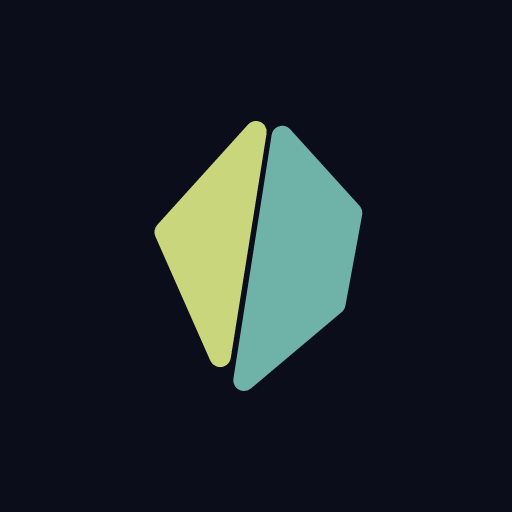
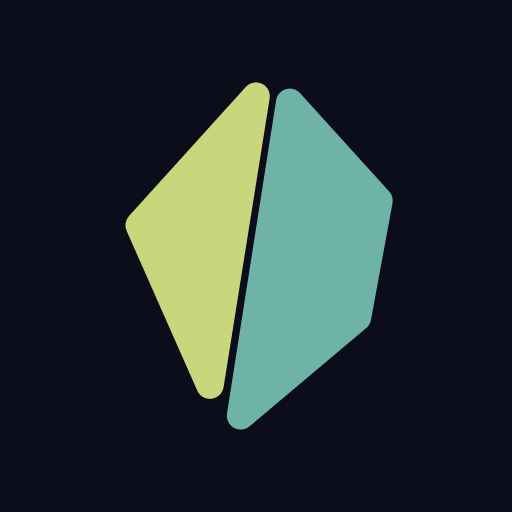
Aperçus et en-têtes : la carte X de l'accueil a son titre, une page introuvable n'a plus d'adresse canonique
- L'accueil porte twitter:title et twitter:description, les mêmes que l'aperçu LinkedIn.
- Une page introuvable ne se déclare plus comme l'accueil (ni canonical, ni og:url).
- /bandes et /primes : le texte de l'image d'aperçu est celui de l'image de l'accueil.
- Une fiche inconnue ouverte avec ?lang=en a son aperçu en anglais.
- Description anglaise des primes : “apprenticeship” au lieu de “work-study”.
- Les réponses JSON de l'API sont compressées au-dessus de 1 Ko ; la configuration se
  garde une minute en cache.
- Manifeste : icônes « any » avec la gemme en grand, et une icône masquable à part,
  dessinée par scripts/icons.ts.

Changed region(s): [[0.25, 0.1562, 0.7812, 0.8438]]

diff --git a/server/src/app.ts b/server/src/app.ts
@@ -37,7 +37,7 @@ import { mountPrimes, purgeEntries } from "./primes";
 import { mountPrimePages } from "./primePages";
 import { loadRules, servableRules } from "./rules";
 import { addVary, compressHtml, isCompressible, readManifest, StaticCompressor, withPreloads } from "./assets";
-import { NOINDEX, robotsTxt, sitemapPaths, sitemapXml, sitePageMeta, withPageUrl } from "./seo";
+import { NOINDEX, robotsTxt, sitemapPaths, sitemapXml, sitePageMeta, withoutPageUrl, withPageUrl } from "./seo";
 
 export interface AppOptions {
   store: Store;
@@ -260,7 +260,15 @@ export function createApp(opts: AppOptions) {
     app.use("*", async (c, next) => {
       if (c.req.path.startsWith("/.vite/")) return c.text("Not found", 404);
       await next();
-      if (c.req.method !== "GET" || !(c.res.headers.get("content-type") ?? "").startsWith("text/html")) return;
+      if (c.req.method !== "GET") return;
+      // Les réponses JSON de l'API, compressées au-dessus de 1 Ko comme le HTML (assets.ts).
+      if ((c.res.headers.get("content-type") ?? "").startsWith("application/json") && c.req.path.startsWith("/api/")) {
+        const packed = await compressHtml(c.res, c.req.header("accept-encoding"));
+        c.res = undefined;
+        c.res = packed;
+        return;
+      }
+      if (!(c.res.headers.get("content-type") ?? "").startsWith("text/html")) return;
       const raw = manifest ? withPreloads(await c.res.text(), manifest, c.req.path, c.res.status) : await c.res.text();
       // La configuration dans la page : le bandeau de saison est là dès la première image (html.ts).
       const html = injectConfig(raw, appConfig());
@@ -304,7 +312,8 @@ export function createApp(opts: AppOptions) {
   const pageNotFound = async (c: Context): Promise<Response> => {
     const template = await siteTemplate();
     c.header("Cache-Control", "no-cache");
-    if (template) return c.html(injectHomeImage(template, baseUrl), 404);
+    // Une page introuvable n'a pas d'adresse canonique : ni celle de l'accueil, ni la sienne.
+    if (template) return c.html(withoutPageUrl(injectHomeImage(template, baseUrl)), 404);
     return c.html(await serverPage(c, "pageNotFound"), 404);
   };
 
@@ -377,7 +386,11 @@ export function createApp(opts: AppOptions) {
       interviews: season ? season.primes.filter((p) => primePhase(season, p, now) === "open").reduce((n, p) => n + p.interviews, 0) : 0,
     };
   };
-  app.get("/api/config", (c) => c.json(appConfig()));
+  // Une minute de cache : chaque page la porte déjà dans son HTML, la réponse ne fait que confirmer.
+  app.get("/api/config", (c) => {
+    c.header("Cache-Control", "public, max-age=60");
+    return c.json(appConfig());
+  });
 
   // Les moteurs de recherche : de vrais fichiers, sans les fiches (seo.ts).
   app.get("/robots.txt", (c) => {
@@ -811,7 +824,7 @@ export function createApp(opts: AppOptions) {
       return c.html(injectMeta(page, generic), mine ? 200 : 410);
     }
     // L'aperçu est lu par tout le monde : la version publique (shared/publicView.ts).
-    const found = row ? metaFor(publicView(withWeekSpecial(store.db, row.data).data, { thirdParty: thirdParty(row) }), baseUrl) : genericMeta(baseUrl, `/c/${id}`);
+    const found = row ? metaFor(publicView(withWeekSpecial(store.db, row.data).data, { thirdParty: thirdParty(row) }), baseUrl) : genericMeta(baseUrl, `/c/${id}`, requestLang(c.req.query("lang"), c.req.header("Accept-Language")));
     const meta = { ...found, noindex: true };
     const html = template ? injectMeta(template, meta) : standalonePage(meta);
     c.header("Cache-Control", "public, max-age=300");

diff --git a/server/src/primePages.ts b/server/src/primePages.ts
@@ -17,7 +17,7 @@ import type { Lang } from "../../shared/types";
 import type { Store } from "./db";
 import { pageTitle } from "../../shared/promise";
 import { frTypo } from "../../shared/typo";
-import { HOME_IMAGE_PATH, injectMeta, requestLang, standalonePage, type PageMeta } from "./html";
+import { HOME_IMAGE_PATH, homeImageAlt, injectMeta, requestLang, standalonePage, type PageMeta } from "./html";
 import { primeViewById } from "./primes";
 import { primeJobs, primeWhen, type PrimeLogo } from "./render/prime";
 
@@ -111,9 +111,10 @@ export function primesMeta(baseUrl: string, lang: Lang = "fr"): PageMeta {
     title: frTypo(pageTitle(fr ? "Les primes : des entretiens pour le haut du classement" : "Bounties: interviews for the top of the board")),
     description: fr
       ? frTypo("Stage, alternance, CDI : des entreprises offrent des entretiens aux fiches les mieux classées. Fais ta fiche et entre dans la course.")
-      : "Internship, work-study, full-time: companies offer interviews to the top-ranked sheets. Get your rap sheet and enter the race.",
+      : "Internship, apprenticeship, full-time: companies offer interviews to the top-ranked sheets. Get your rap sheet and enter the race.",
     image: `${baseUrl}${HOME_IMAGE_PATH}`,
-    imageAlt: fr ? "Azerit, les primes" : "Azerit, the bounties",
+    // l'image est celle de l'accueil : son texte aussi
+    imageAlt: homeImageAlt(lang),
   };
 }
 

diff --git a/scripts/icons.ts b/scripts/icons.ts
@@ -1,7 +1,8 @@
 // Les icônes du site, dessinées depuis la gemme d'Azerit (web/src/components/Brand.tsx)
 // sur l'encre, par le moteur d'images du serveur (resvg) : l'onglet (favicon.svg et
 // favicon.ico), l'écran d'accueil du téléphone (apple-touch-icon.png) et le
-// manifeste (icon-192.png, icon-512.png). Rien n'est téléchargé.
+// manifeste (icon-192.png, icon-512.png, et icon-maskable-512.png que le système découpe).
+// Rien n'est téléchargé.
 //
 //   npx tsx scripts/icons.ts
 //
@@ -62,6 +63,8 @@ const tab = (size: number) => iconSvg(size, 0.78, size * 0.22);
 writeFileSync(join(OUT, "favicon.svg"), tab(64) + "\n");
 writeFileSync(join(OUT, "favicon.ico"), ico([16, 32, 48].map((size) => ({ size, data: png(tab(size)) }))));
 writeFileSync(join(OUT, "apple-touch-icon.png"), png(iconSvg(180, 0.6)));
-writeFileSync(join(OUT, "icon-192.png"), png(iconSvg(192, 0.56)));
-writeFileSync(join(OUT, "icon-512.png"), png(iconSvg(512, 0.56)));
+// « any » : la gemme en grand ; « maskable » : dans la zone sûre, le système arrondit ou découpe le fond.
+writeFileSync(join(OUT, "icon-192.png"), png(iconSvg(192, 0.72)));
+writeFileSync(join(OUT, "icon-512.png"), png(iconSvg(512, 0.72)));
+writeFileSync(join(OUT, "icon-maskable-512.png"), png(iconSvg(512, 0.56)));
 console.log("Icônes écrites dans", OUT);

diff --git a/server/src/bandPages.ts b/server/src/bandPages.ts
@@ -17,7 +17,7 @@ import { publicBandStanding } from "./bands";
 import type { Store } from "./db";
 import { pageTitle } from "../../shared/promise";
 import { frTypo } from "../../shared/typo";
-import { HOME_IMAGE_PATH, injectMeta, requestLang, standalonePage, type PageMeta } from "./html";
+import { HOME_IMAGE_PATH, homeImageAlt, injectMeta, requestLang, standalonePage, type PageMeta } from "./html";
 
 const LEAGUE_FR: Record<BandType, string> = { ecole: "des écoles", boite: "des boîtes" };
 const LEAGUE_EN: Record<BandType, string> = { ecole: "among schools", boite: "among companies" };
@@ -95,7 +95,8 @@ export function boardMeta(baseUrl: string, lang: Lang = "fr"): PageMeta {
       ? frTypo("Les écoles et les boîtes classées aux étoiles de leurs fiches. Fais ta fiche : tes étoiles comptent pour ta bande.")
       : "Schools and companies ranked by the stars of their sheets. Get your rap sheet: your stars count for your crew.",
     image: `${baseUrl}${HOME_IMAGE_PATH}`,
-    imageAlt: fr ? "Azerit, les bandes" : "Azerit, the crews",
+    // l'image est celle de l'accueil : son texte aussi
+    imageAlt: homeImageAlt(lang),
   };
 }
 

diff --git a/server/src/app.test.ts b/server/src/app.test.ts
@@ -572,6 +572,19 @@ describe("image d'aperçu de l'accueil (/og/home.png)", () => {
     }
   });
 
+  it("une page introuvable n'a pas d'adresse canonique, et la configuration se garde une minute", async () => {
+    const root = mkdtempSync(join(tmpdir(), "tys-web-"));
+    writeFileSync(join(root, "index.html"), INDEX);
+    const ctx = setup({}, { staticRoot: root, indexHtml: async () => INDEX });
+    const res = await ctx.app.request("/nulle/part");
+    expect(res.status).toBe(404);
+    const html = await res.text();
+    expect(html).not.toContain(`rel="canonical"`);
+    expect(html).not.toContain(`property="og:url"`);
+    expect(html).toContain(`<meta property="og:image" content="https://skills.test/og/home.png">`);
+    expect((await ctx.app.request("/api/config")).headers.get("cache-control")).toBe("public, max-age=60");
+  });
+
   it("la vie privée a son propre titre, sa description et son adresse, avec l'image de l'accueil", async () => {
     const root = mkdtempSync(join(tmpdir(), "tys-web-"));
     writeFileSync(join(root, "index.html"), INDEX);

diff --git a/server/src/html.test.ts b/server/src/html.test.ts
@@ -158,7 +158,8 @@ describe("le titre de l'accueil, en un seul endroit (shared/promise.ts)", () => 
   it("web/index.html, la seule copie à la main, porte le même titre, la même description et le même texte d'image", () => {
     expect(INDEX).toContain(`<title>${homeTitle("fr")}</title>`);
     expect(INDEX).toContain(`<meta property="og:title" content="${homeTitle("fr")}" />`);
-    expect(INDEX.match(new RegExp(`content="${HOME_PROMISE.fr.description}"`, "g"))).toHaveLength(2);
+    expect(INDEX.match(new RegExp(`content="${HOME_PROMISE.fr.description}"`, "g"))).toHaveLength(3);
+    expect(INDEX).toContain(`<meta name="twitter:title" content="${homeTitle("fr")}" />`);
     expect(INDEX).toContain(`<meta property="og:image:alt" content="${homeImageAlt("fr")}" />`);
   });
 

diff --git a/web/index.html b/web/index.html
@@ -24,6 +24,11 @@
     <meta property="og:image:height" content="630" />
     <meta property="og:image:alt" content="Azerit : Ta fiche de dev. Combien d'étoiles ?" />
     <meta name="twitter:card" content="summary_large_image" />
+    <meta name="twitter:title" content="Azerit · Ta fiche de dev. Combien d'étoiles ?" />
+    <meta
+      name="twitter:description"
+      content="Ta fiche de dev façon avis de recherche, notée de une à six étoiles. LinkedIn ou GitHub, une minute. Par Azerit."
+    />
     <meta name="twitter:image" content="https://skills.azerit.tech/og/home.png" />
     <!-- Icônes de la gemme (scripts/icons.ts) : ancien navigateur, onglet, écran d'accueil du téléphone, manifeste. -->
     <link rel="icon" href="/favicon.ico" sizes="32x32" />

diff --git a/server/src/seo.ts b/server/src/seo.ts
@@ -53,6 +53,11 @@ export function sitePageMeta(path: string, baseUrl: string, lang: Lang): PageMet
   return { ...own, description: PAGE_DESCRIPTIONS[page][own.lang] };
 }
 
+/** Une page introuvable : sans adresse canonique ni og:url (celles du index.html désignent l'accueil). */
+export function withoutPageUrl(html: string): string {
+  return html.replace(/<link\s+rel=["']canonical["'][^>]*>\s*/gi, "").replace(/<meta\s+property=["']og:url["'][^>]*>\s*/gi, "");
+}
+
 /** L'adresse canonique d'une page (accueil, ou accueil prérempli par /pseudo) : canonical et og:url, remplacés, jamais doublés. */
 export function withPageUrl(html: string, url: string): string {
   const e = escapeHtml;

diff --git a/server/src/seo.test.ts b/server/src/seo.test.ts
@@ -34,6 +34,7 @@ describe("balises des pages du site", () => {
       expect(index).toContain(tag);
     const manifest = JSON.parse(readFileSync(join(__dirname, "../../web/public/site.webmanifest"), "utf8"));
     expect(manifest.name).toBe("Azerit");
-    expect(manifest.icons.map((i: { sizes: string }) => i.sizes)).toEqual(["192x192", "512x512"]);
+    // « any » et « maskable » séparés : une icône masquable a sa propre marge (scripts/icons.ts).
+    expect(manifest.icons.map((i: { sizes: string; purpose: string }) => `${i.sizes} ${i.purpose}`)).toEqual(["192x192 any", "512x512 any", "512x512 maskable"]);
   });
 });
